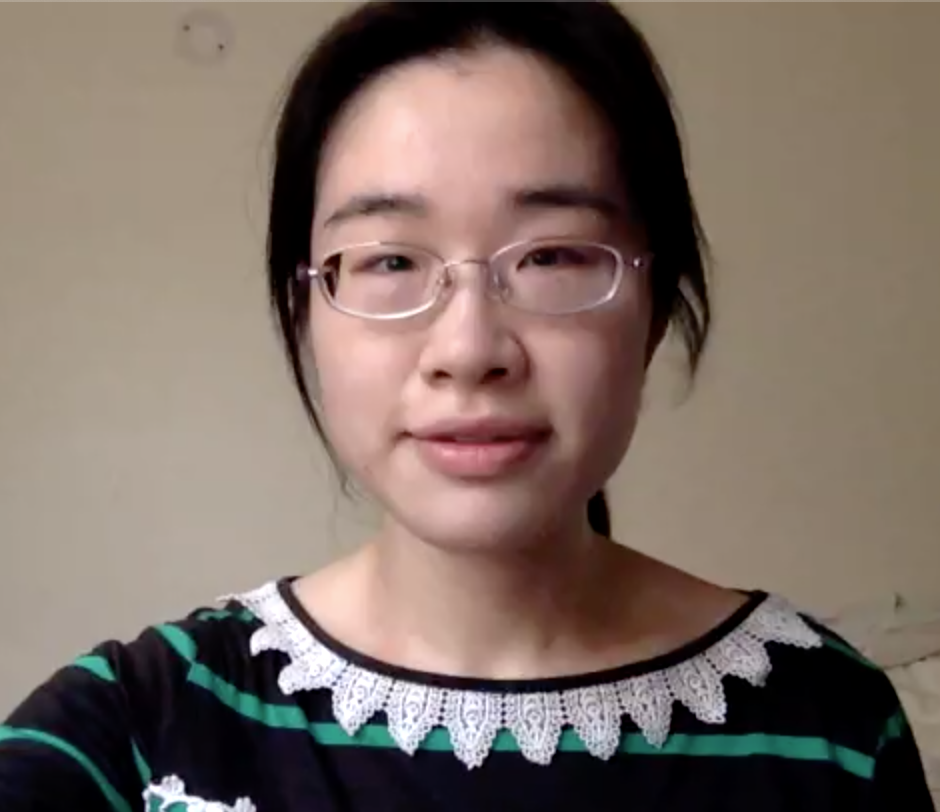
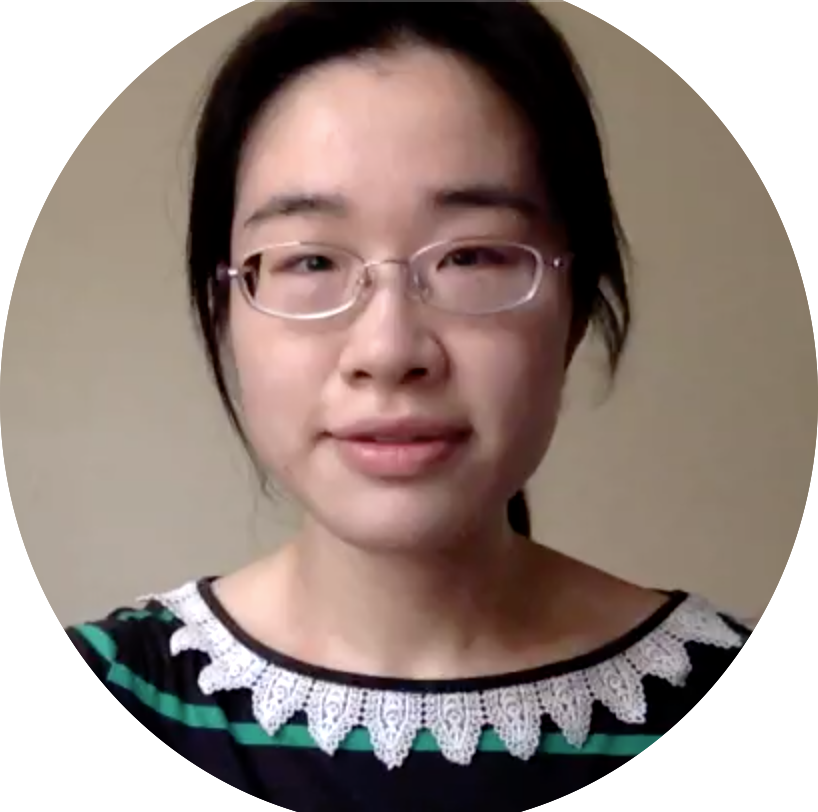
Organized header to fit in profile photo

diff --git a/index.html b/index.html
@@ -15,16 +15,38 @@
         header {
             background-color: #555;
             color: #fff;
-            padding: 1rem;
             display: flex;
+            justify-content: space-between;
             align-items: center;
-            justify-content: flex-start;
+            padding: 1rem;
+        }
+        .header-text {
+            flex: 1;
+            display: flex;
+            flex-direction: column;
+            justify-content: center;
+            margin-right: 0.5rem;
+        }
+        h1 {
+            margin: 0; /* Remove default margin */
+            padding-bottom: 0.5rem; /* Add space below h1 */
+            padding-left: 3rem;
+        }
+
+        p {
+            margin: 0; /* Remove default margin */
+            padding-top: 0.25rem; /* Add space above p */
+            padding-bottom: 0.5rem; /* Add space below p */
+            padding-left: 3rem;
+        }
+        h1, p {
+            margin: 0;
+            white-space: nowrap;
         }
         .header-image {
-            width: 50px;
-            height: 50px;
-            border-radius: 50%;
-            margin-right: 15px;
+            width: 25%;
+            height: auto;
+            object-fit: cover;
         }
         main {
             max-width: 900px;
@@ -33,7 +55,7 @@
             background-color: #fff;
             box-shadow: 0 0 10px rgba(0, 0, 0, 0.1);
         }
-        h1, h2, {
+        h2 {
             color: #333;
         }
         .section {
@@ -64,9 +86,11 @@
 </head>
 <body>
     <header>
-        <img src="https://path-to-your-image/heyizhu.jpg" alt="Heyi Zhu" class="header-image">
-        <h1>Welcome to Heyi's Homepage</h1>
-        <p>Site under construction--bear with me :p</p>
+        <div class="header-text">
+            <h1>Welcome to Heyi's Homepage</h1>
+            <p>Site under construction--bear with me :p</p>
+        </div>
+        <img src="Zhu,Heyi_ProfilePhoto.png" alt="Heyi Zhu" class="header-image">
     </header>
 
     <main>
